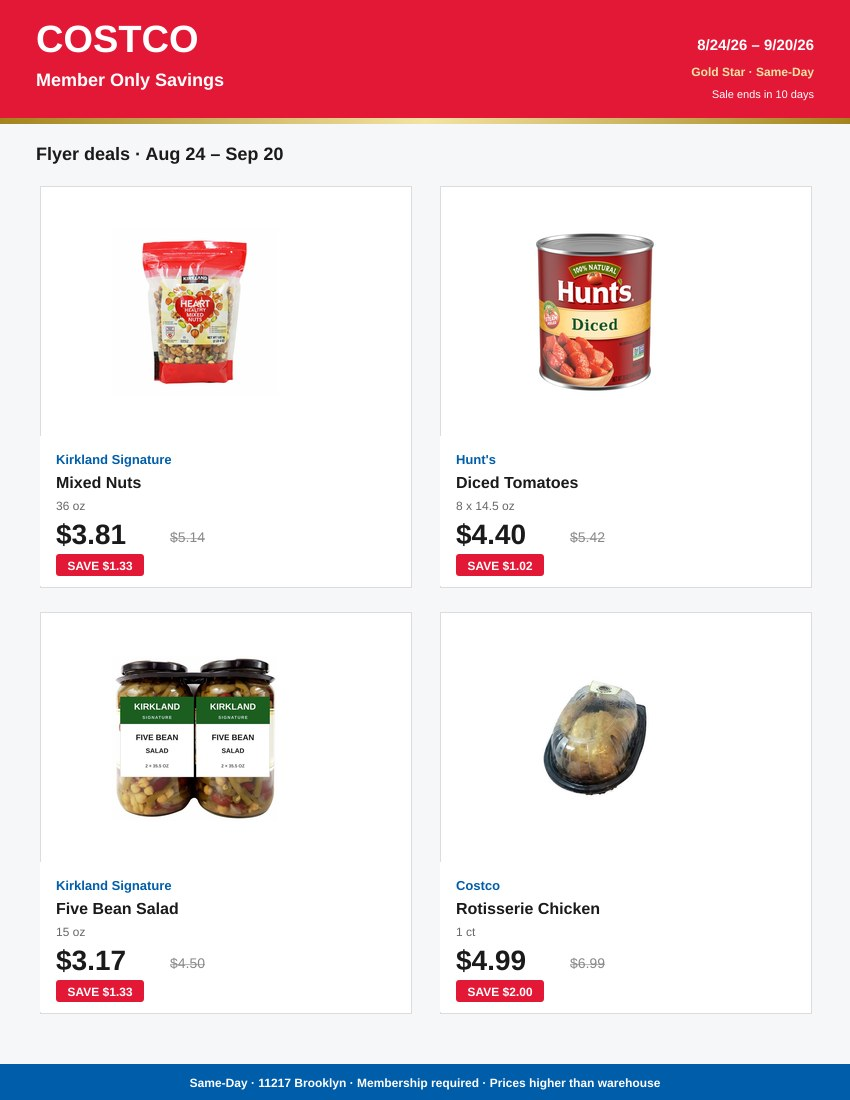
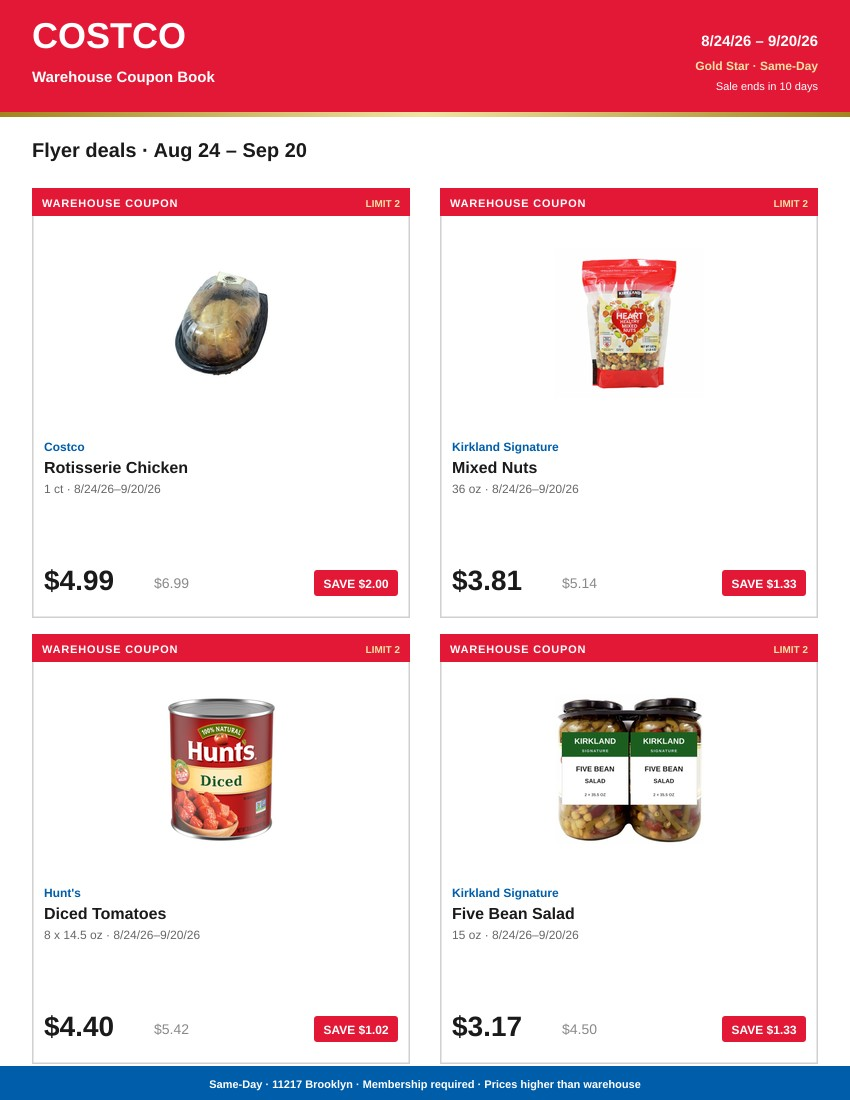
Print the weekly ad as a Costco warehouse coupon book
Flyer pages now use WAREHOUSE COUPON bars and the Same-Day deal packs instead of a pasta lifestyle cover. Kirk and the shoppable flyer grid are unchanged.

diff --git a/components/FlyersView.tsx b/components/FlyersView.tsx
@@ -9,11 +9,11 @@ import ProductDetailModal from "@/components/ProductDetailModal";
 
 const pages = [
   {
-    src: "/products/flyer-page-1.jpg?v=1",
-    label: "Page 1 · Cover",
+    src: "/products/flyer-page-1.jpg?v=2",
+    label: "Page 1 · Coupon book",
   },
   {
-    src: "/products/flyer-page-2.jpg?v=1",
+    src: "/products/flyer-page-2.jpg?v=2",
     label: "Page 2 · Flyer deals",
   },
 ] as const;
